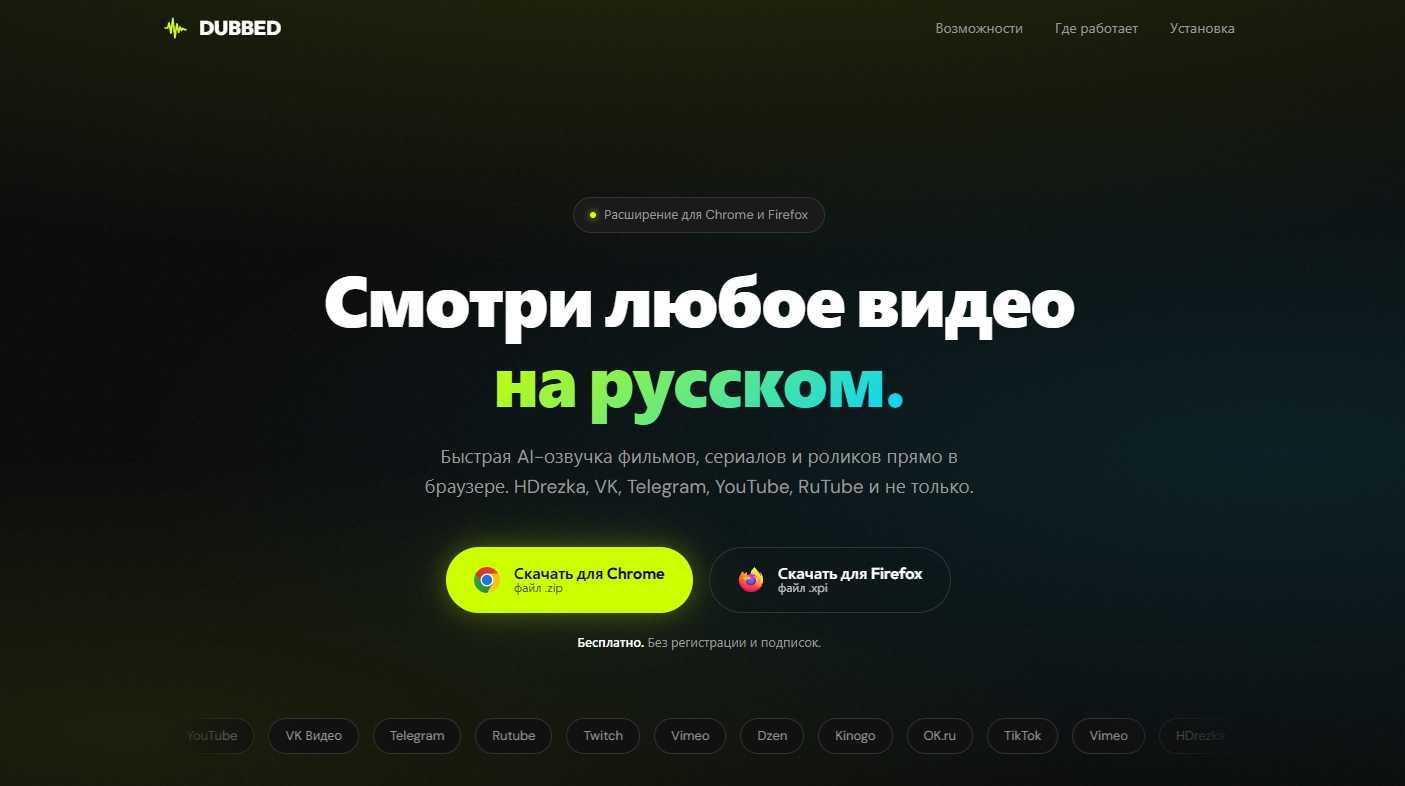
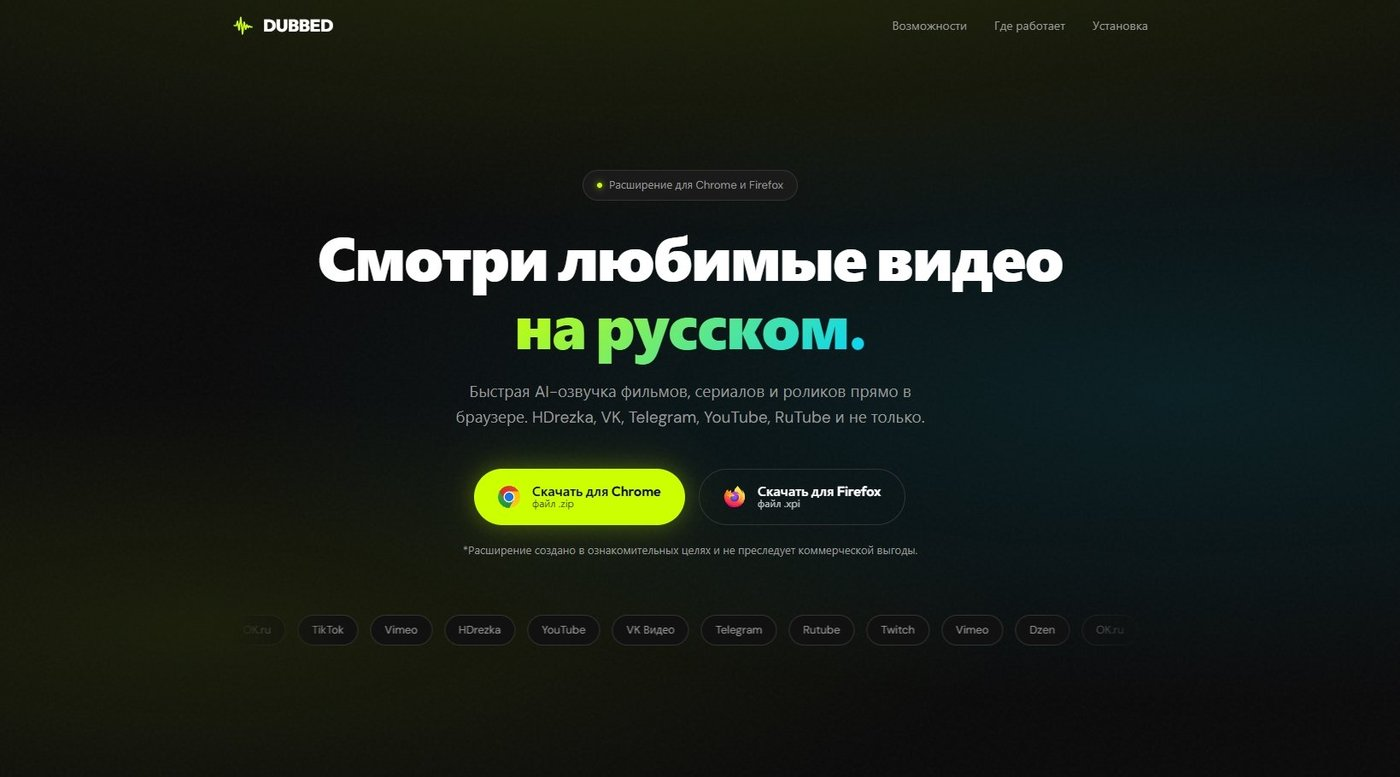
README: новый скриншот лендинга

diff --git a/README.md b/README.md
@@ -1,6 +1,6 @@
 # DUBBED
 
-<img src="assets/main.jpg" alt="Лендинг DUBBED: смотри любое видео на русском" width="720">
+<img src="assets/main.jpg" alt="Лендинг DUBBED: смотри любимые видео на русском" width="720">
 
 Бесплатное расширение для Chrome и Firefox: мгновенная AI-озвучка фильмов, сериалов и видео прямо в браузере. Быстрая озвучка на доменах HDrezka; работает в VK, Telegram, YouTube и многих других сайтов.
 
